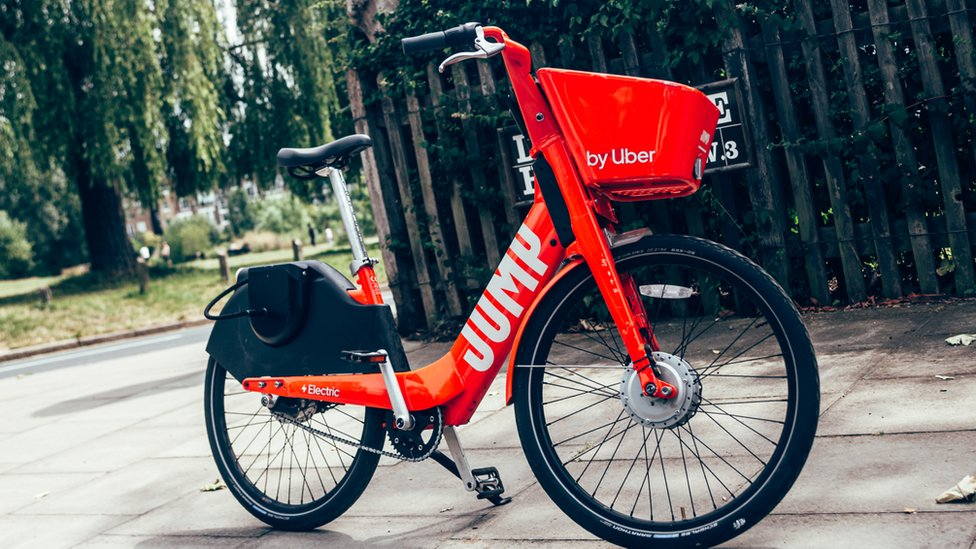
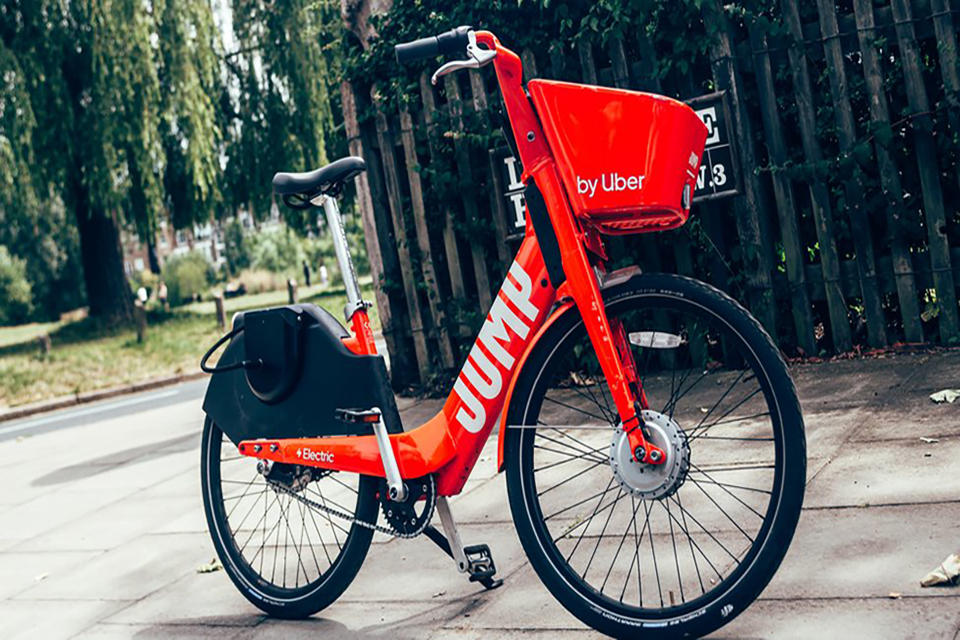
Adjusted Picture Sizing
Fit pictures on the Bike/Scooter page

diff --git a/public/resourcePages/bikeAndScooterInfo.html b/public/resourcePages/bikeAndScooterInfo.html
@@ -208,7 +208,7 @@
             <div class="row">
                 <div class="col-md-6">
                     <div class="card">
-                        <img class="card-img-top" src="../img/jumpBikePicture.jpg" style="height: 310px;" alt="SOV">
+                        <img class="card-img-top" src="../img/jumpBikePicture.jpg" alt="SOV">
                         <div class="card-body d-flex flex-column">
                             <h5 class="card-title">Jump Bike</h5>
                             <p class="card-text">Jump Bike is an Uber based bike that allows quick and easy renting.</p>
